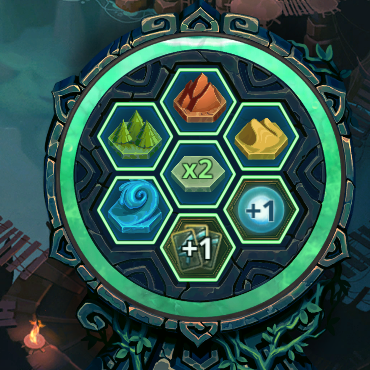
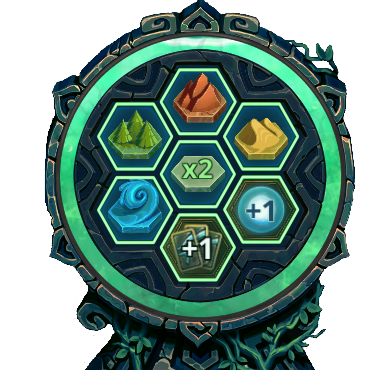
[add] faeria counters

diff --git a/frontend/static/maker/js/canvas_events.js b/frontend/static/maker/js/canvas_events.js
@@ -1,91 +1,6 @@
 
 $(document).ready( function () {
 	
-	var elementChanged = new Event('elementChanged'),
-		//textChanged = new Event('textChanged'),
-		elements = [], textelements = [],
-		canvas = document.getElementById("myCanvas"),
-		ctx = canvas.getContext("2d");
-
-	canvas.addEventListener('elementChanged', function () {
-		for (i = 0; i < elements.length; i++) {
-			var el = elements[i];
-			ctx.drawImage(el.img, el.x, el.y, el.width, el.height);
-		}
-		for (i = 0; i < textelements.length; i++) {
-			var el = textelements[i];
-			ctx.font = el.font;
-			ctx.shadowColor = "black";
-			ctx.shadowOffsetX = 5; 
-			ctx.shadowOffsetY = 5; 
-			ctx.shadowBlur = 7;
-			if (typeof el.color !== 'undefined') {
-				ctx.fillStyle = el.color;
-			} else {
-				ctx.fillStyle = 'white';
-			}
-			ctx.textAlign = "center";
-			ctx.fillText(el.text, el.x + el.width/2, el.y + el.height*2/3);
-		}
-	});
-
-	canvas.addEventListener('click', function(event) {
-		var x = (event.pageX - canvas.offsetLeft)/canvas.clientWidth*canvas.width,
-			y = (event.pageY - canvas.offsetTop)/canvas.clientHeight*canvas.height;
-		//alert(x.toString() + " " + y.toString());
-		for (i = textelements.length-1; i >= 0; i--) {
-			var el = textelements[i];
-			if (el.x < x &&  x < el.x+el.width && el.y < y && y < el.y + el.height) {
-				el.onclick(event);
-				break;
-			}
-		}
-		for (i = elements.length-1; i >= 0; i--) {
-			var el = elements[i];
-			if (el.x < x &&  x < el.x+el.width && el.y < y && y < el.y + el.height) {
-				el.onclick(event);
-				break;
-			}
-		}
-	});
-	var mainelem = new ImageElement(0, 0, 1920, 1080);
-	mainelem.images = [document.getElementById("main")];
-	mainelem.onclick = function (event) {};
-	elements.push(mainelem);
-	mainelem.setImage(0);
-	var powerwheel = new ImageElement(1920-370, 1080-370, 370, 370);
-	powerwheel.images = [document.getElementById("pw_disabled"), document.getElementById("pw_active")];
-	powerwheel.onclick = function (event) {
-		if (this.state == 0) {
-			this.setImage(1);
-		} else {
-			this.setImage(0);
-		}
-	};
-	elements.push(powerwheel);
-	powerwheel.setImage(1);
-
-	var nickname1 = new TextElement("18px Libre Baskerville", 85, 1017, 142, 30);
-	nickname1.color = 'white';
-	nickname1.onclick = function (event) {
-		$('#myTab a[href="#general"]').tab('show');
-		$('#form_name').focus();
-	};
-	textelements.push(nickname1);
-	$('#form_name').on('input', function (event) {
-		nickname1.setText($('#form_name').val());
-	});
-
-	var nickname2 = new TextElement("18px Libre Baskerville", 76, 34, 142, 30);
-	nickname1.color = 'white';
-	nickname2.onclick = function (event) {
-		$('#myTab a[href="#general"]').tab('show');
-		$('#form_name2').focus();
-	};
-	textelements.push(nickname2);
-	$('#form_name2').on('input', function (event) {
-		nickname2.setText($('#form_name2').val());
-	});
 	function ImageElement(x, y, w, h) {
 		this.x = x;
 		this.y = y;
@@ -105,9 +20,131 @@ $(document).ready( function () {
 		this.width = w;
 		this.height = h;
 		this.text = "";
+		this.tab = "";
+		this.textfield = "";
 		this.setText = function (text) {
 			this.text = text;
 			canvas.dispatchEvent(elementChanged);
 		};
+		//onclick switch focus to the text field
+		this.onclick = function (event) {
+			$(this.tab).tab('show');
+			$(this.textfield).focus();
+		};
 	}
+	
+	var elementChanged = new Event('elementChanged'),
+		//textChanged = new Event('textChanged'),
+		elements = [], textelements = [],
+		canvas = document.getElementById("myCanvas"),
+		ctx = canvas.getContext("2d");
+
+	//redraw everything
+	canvas.addEventListener('elementChanged', function () {
+		for (i = 0; i < elements.length; i++) {
+			var el = elements[i];
+			ctx.drawImage(el.img, el.x, el.y, el.width, el.height);
+		}
+		for (i = 0; i < textelements.length; i++) {
+			var el = textelements[i];
+			ctx.font = el.font;
+			//ctx.shadowColor = "black";
+			//ctx.shadowOffsetX = 5; 
+			//ctx.shadowOffsetY = 5; 
+			//ctx.shadowBlur = 7;
+			if (typeof el.color !== 'undefined') {
+				ctx.fillStyle = el.color;
+			} else {
+				ctx.fillStyle = 'white';
+			}
+			ctx.textAlign = "center";
+			ctx.fillText(el.text, el.x + el.width/2, el.y + el.height*2/3);
+		}
+	});
+
+	//find element that was clicked
+	canvas.addEventListener('click', function(event) {
+		var x = (event.pageX - canvas.offsetLeft)/canvas.clientWidth*canvas.width,
+			y = (event.pageY - canvas.offsetTop)/canvas.clientHeight*canvas.height;
+		//alert(x.toString() + " " + y.toString());
+		for (i = textelements.length-1; i >= 0; i--) {
+			var el = textelements[i];
+			if (el.x < x &&  x < el.x+el.width && el.y < y && y < el.y + el.height) {
+				el.onclick(event);
+				break;
+			}
+		}
+		for (i = elements.length-1; i >= 0; i--) {
+			var el = elements[i];
+			if (el.x < x &&  x < el.x+el.width && el.y < y && y < el.y + el.height) {
+				el.onclick(event);
+				break;
+			}
+		}
+	});
+	
+	//main background image
+	var mainelem = new ImageElement(0, 0, 1920, 1080);
+	mainelem.images = [document.getElementById("main")];
+	mainelem.onclick = function (event) {};
+	elements.push(mainelem);
+	mainelem.setImage(0);
+	
+	//Power Wheel
+	var powerwheel = new ImageElement(1920-370, 1080-370, 370, 370);
+	powerwheel.images = [document.getElementById("pw_disabled"), document.getElementById("pw_active")];
+	powerwheel.onclick = function (event) {
+		if (this.state == 0) {
+			this.setImage(1);
+		} else {
+			this.setImage(0);
+		}
+	};
+	elements.push(powerwheel);
+	powerwheel.setImage(0);
+
+	//Your Nickname
+	var nickname1 = new TextElement("bold 18px Libre Baskerville", 85, 1017, 142, 30);
+	nickname1.color = 'white';
+	nickname1.tab = '#myTab a[href="#general"]';
+	nickname1.textfield = '#form_name';
+	textelements.push(nickname1);
+	//on input redraw text
+	$('#form_name').on('input', function (event) {
+		nickname1.setText($('#form_name').val());
+	});
+	
+	//Opponent's Nickname
+	var nickname2 = new TextElement("bold 18px Libre Baskerville", 76, 34, 142, 30);
+	nickname2.color = 'white';
+	nickname2.tab = '#myTab a[href="#general"]';
+	nickname2.textfield = '#form_name2';
+	textelements.push(nickname2);
+	//on input redraw text
+	$('#form_name2').on('input', function (event) {
+		nickname2.setText($('#form_name2').val());
+	});
+	
+	//Your Faeria
+	var faeria1 = new TextElement("bold 44px Libre Baskerville", 110, 891, 95, 95);
+	faeria1.color = "black";
+	faeria1.tab = '#myTab a[href="#general"]';
+	faeria1.textfield = '#form_faeria';
+	textelements.push(faeria1);
+	//on input redraw text
+	$('#form_faeria').on('input', function (event) {
+		faeria1.setText($('#form_faeria').val());
+	});
+	
+	//Opponent's Faeria
+	var faeria2 = new TextElement("bold 44px Libre Baskerville", 103, 95, 95, 95);
+	faeria2.color = "black";
+	faeria2.tab = '#myTab a[href="#general"]';
+	faeria2.textfield = '#form_faeria2';
+	textelements.push(faeria2);
+	//on input redraw text
+	$('#form_faeria2').on('input', function (event) {
+		faeria2.setText($('#form_faeria2').val());
+	});
+	
 });
